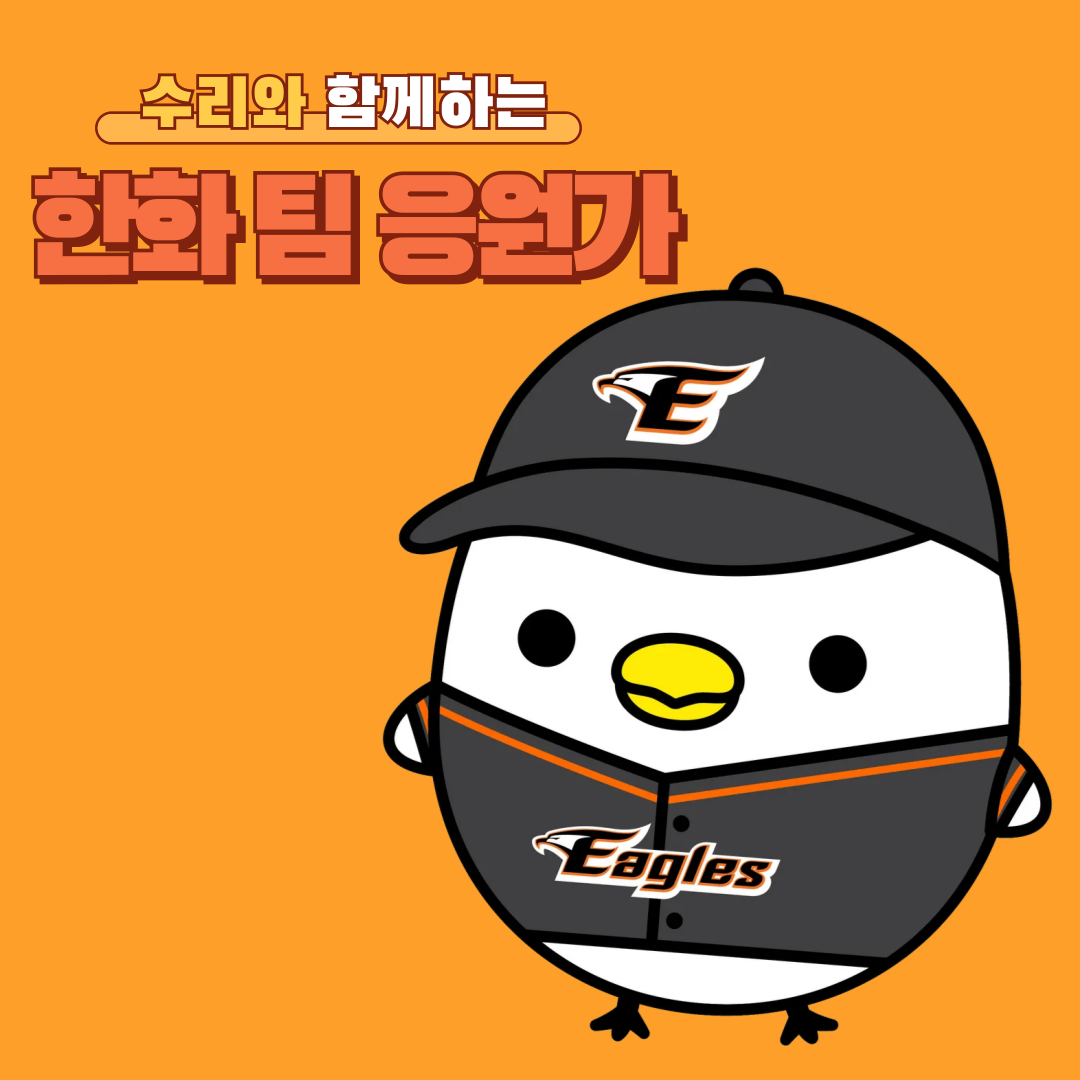
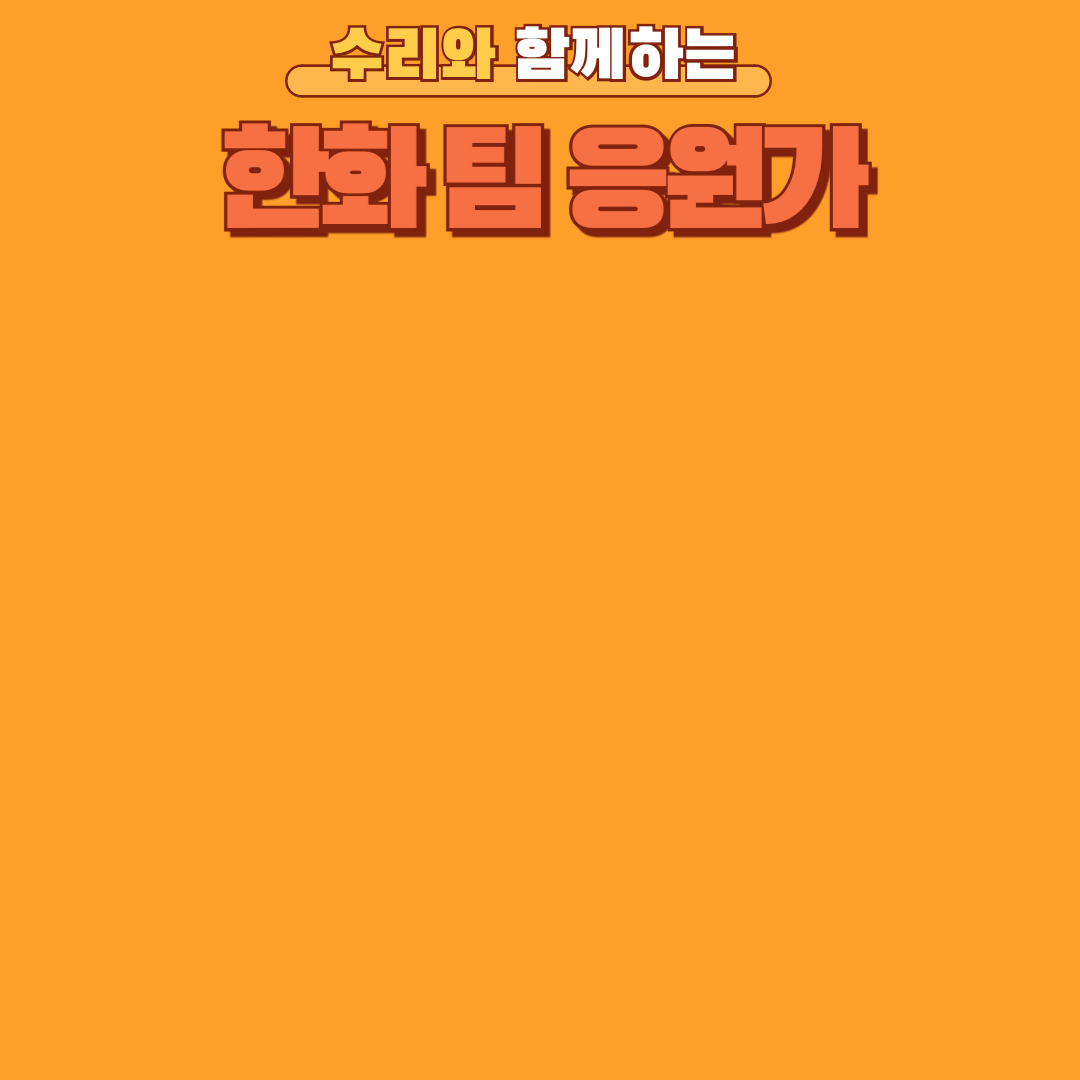
캐릭터 움직임으로 변경, 곡 선택 플레이할 수 있도록 버튼 추가, 슬라이더 작동 오류 수정

diff --git a/sketch.js b/sketch.js
@@ -7,9 +7,11 @@ let slider;
 let slidePan;
 let sliderRate;
 let amp;
-
 let img1; // 노동요 버전(배속) 배경
 let img2; // 일반 배경
+let img3; // 캐릭터
+let img3X = 130; // img3의 x값 고정
+let img3Y = 470; // img3의 초기 y값
 
 function preload() {
   soundFormats("mp3", "ogg");
@@ -18,6 +20,7 @@ function preload() {
   
   img1 = loadImage("f111.png");
   img2 = loadImage("f222.png");
+  img3 = loadImage("f3.png");
 }
 
 function setup() {
@@ -25,25 +28,31 @@ function setup() {
   amp = new p5.Amplitude();
   vol = 0.5;
 
-  // PLAY 버튼
-  button = createButton("PLAY");
-  button.position(20, 20);
-  button.mousePressed(playMusic);
+  // PLAY 버튼 (행복송)
+  let buttonPlay1 = createButton("PLAY 행복송");
+ buttonPlay1.position(20, 150);
+  buttonPlay1.mousePressed(() => playMusic(mm));
+
+  // PLAY 버튼 (내사랑 한화)
+  let buttonPlay2 = createButton("PLAY 내사랑 한화");
+  buttonPlay2.position(20, 180);
+  buttonPlay2.mousePressed(() => playMusic(mm2));
 
   // STOP 버튼
   buttonPause = createButton("STOP");
-  buttonPause.position(100, 20);
+  buttonPause.position(65, 210);
   buttonPause.mousePressed(pauseMusic);
 
   // 슬라이더 설정
   slider = createSlider(0, 1, 0.5, 0.01); // 볼륨 조절
-  slider.position(20, 100);
+ slider.position(20, 240);
   
   slidePan = createSlider(-1, 1, 0, 0.1); // 팬 조절
-  slidePan.position(20, 140);
+  slidePan.position(20, 270);
 
   sliderRate = createSlider(0.5, 2, 1, 0.1); // 속도 조절
-  sliderRate.position(20, 180);
+  sliderRate.position(20, 300);
+
 }
 
 function draw() {
@@ -53,39 +62,58 @@ function draw() {
   image(img1, 0, 0, 640, 640);
   image(img2, 0, 0, 640, 640);
 
+  // 볼륨 값 가져오기
+  let vol = amp.getLevel();
+  let sped = sliderRate.value();
+
+  // 캐릭터 움직임 추가 (볼륨, 속도에 맞춰서 위아래로 튕기기)
+img3Y = 240 + sin(frameCount * sped * 0.5) * map(vol, 0, 1, 0, 50);
+
+  image(img3, img3X, img3Y, 400, 400);
+
   fill(253, 159, 40); // 오렌지색 하단 배경
   rect(0, 640, 640, 640); // 640*640 하단 공간 추가
 
   fill(255);
   textSize(32);
   textAlign(CENTER, CENTER);
-  text("𝐑𝐈𝐃𝐄 𝐓𝐇𝐄 𝐒𝐓𝐎𝐑𝐌", width / 2, 640 + 640 / 2); // 한화이글스의 2025년 슬로건
+  text("𝐑𝐈𝐃𝐄 𝐓𝐇𝐄 𝐒𝐓𝐎𝐑𝐌", width / 2, 640 + 640 / 2); 
+  // 한화이글스의 2025년 슬로건
 
-  
-  let vol = amp.getLevel();
-  let diameter = map(vol, 0, 1, 50, 150);
-  fill(0);
- ellipse(322, 380, 10+amp.getLevel()*100, 10+amp.getLevel()*100);
- ellipse(495, 390, 10+amp.getLevel()*100, 10+amp.getLevel()*100);
-} //눈알로 변경
+  updateSoundProperties();
+}
 
-function playMusic() {
-  if (!mm.isPlaying() && !mm2.isPlaying()) {
-    mm.play();
-    button.html("STOP");
-  } else {
-    mm.stop();
-    mm2.stop();
-    button.html("PLAY");
+function updateSoundProperties() {
+  if (mm.isPlaying()) {
+    mm.setVolume(slider.value());
+    mm.pan(slidePan.value());
+    mm.rate(sliderRate.value());
+  } else if (mm2.isPlaying()) {
+    mm2.setVolume(slider.value());
+    mm2.pan(slidePan.value());
+    mm2.rate(sliderRate.value());
   }
+}
+
+function playMusic(track) {
+  if (!track.isPlaying()) {
+    stopAllMusic();
+    track.play();
+  } else {
+    track.stop();
+  }
+}
+
+function stopAllMusic() {
+  mm.stop();
+  mm2.stop();
 }
 
 function pauseMusic() {
   if (mm.isPlaying()) {
     mm.pause();
-    button.html("PLAY");
   } else if (mm2.isPlaying()) {
     mm2.pause();
-    button.html("PLAY");
   }
 }
+
